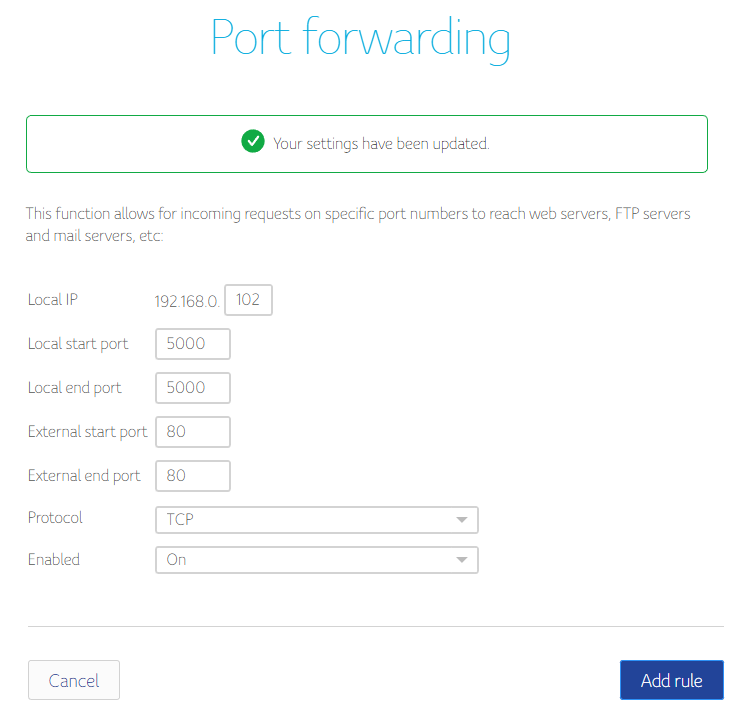
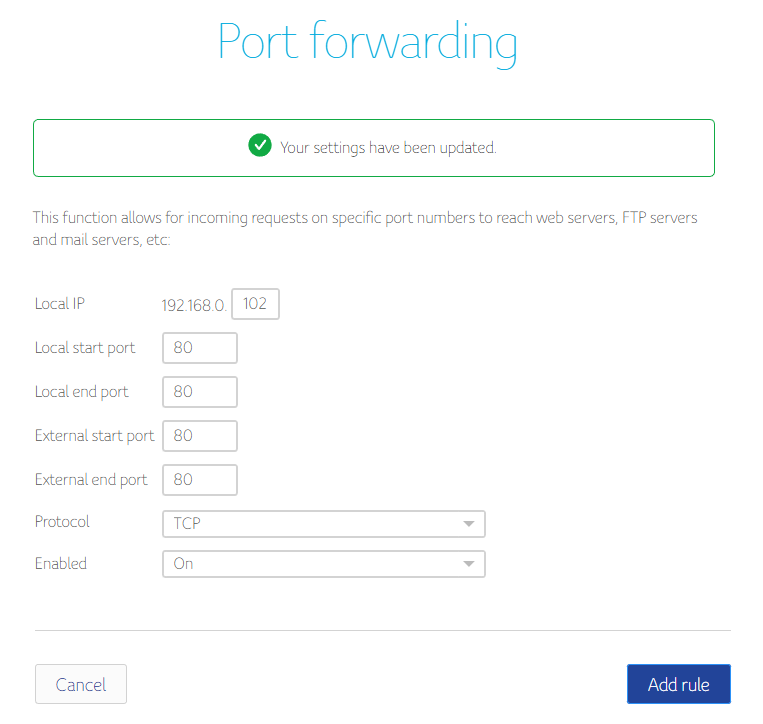
group02 - tutorial improvements

diff --git a/topics/02_raspPI/README.md b/topics/02_raspPI/README.md
@@ -82,44 +82,6 @@ To read the logs from PC:
 ssh pi@pi-server "journalctl -f -u web_api"
 ```
 
-## Port forwarding
-
-To access the web application from the internet outside your local network, you will need to enable port forwarding in your router settings.
-
-First, determine the ip address of your raspberry pi in your local network.
-
-    ifconfig
-
-![ifconfig](images/ifconfig.PNG)
-
-Then, log into your router. How exactly to do this depends on your internet service provider and your router.
-Often the router is accessible on the ip address http://192.168.0.1/.
-
-Enable port forwarding for the external port `80` (http) to the local port `5000`. This might look like this:
-
-![port forwarding](images/portforwarding.PNG)
-
-To check if this worked, first determine the public ip address of your raspberry pi. There are numerous ways to do this, but one of the easiest is just to call the website `icanhazip.com`.
-
-    curl icanhazip.com
-
-Call the ip address you receive in your web browser.
-Now your API should be visible from the wider internet, but it would be nice to have an actual domain name.
-
-## Buy a domain
-
-There are many websites to buy a domain. A list of these domain name registrars can be found [here](https://domainnamestat.com/statistics/registrar/others).
-
-For the purpose of this tutorial, we bought the domain `protofablab.ch`.
-
-On your domain registry, locate the DNS settings and add a DNS-record for your public ip address:
-
-![dns settings](images/dns.PNG)
-
-The API is now available on the domain `protofablab.ch`:
-
-![domain](images/domain.PNG)
-
 ## Setting up a web server with Nginx
 
 Why?
@@ -150,8 +112,45 @@ sudo ln -s /etc/nginx/sites-available/web-api /etc/nginx/sites-enabled/
 sudo service nginx restart
 ```
 
-The web API is now accessible on port `80`(http) on your local ip address (`http://pi-server`).
-To make the server available through nginx from the internet, you have to change your port forwarding to forward the external port `80` to the local port `80`. The API is now available via the specified domain name (e.g. `http://protofablab.ch/`).
+Nginx us now accessible on port `80`(http) on your local ip address (`http://pi-server`), but doesn't show the web API yet.
+
+## Port forwarding
+
+To access the web application from the internet outside your local network, you will need to enable port forwarding in your router settings.
+
+First, determine the ip address of your raspberry pi in your local network.
+
+    ifconfig
+
+![ifconfig](images/ifconfig.PNG)
+
+Then, log into your router. How exactly to do this depends on your internet service provider and your router.
+Often the router is accessible on the ip address http://192.168.0.1/.
+
+Enable port forwarding for the external port `80` (http) to the local port `80`. This might look like this:
+
+![port forwarding](images/portforwarding.PNG)
+
+To check if this worked, first determine the public ip address of your raspberry pi. There are numerous ways to do this, but one of the easiest is just to call the website `icanhazip.com`.
+
+    curl icanhazip.com
+
+Call the ip address you receive in your web browser.
+Now nginx should be visible from the wider internet, but it would be nice to have an actual domain name.
+
+## Buy a domain
+
+There are many websites to buy a domain. A list of these domain name registrars can be found [here](https://domainnamestat.com/statistics/registrar/others).
+
+For the purpose of this tutorial, we bought the domain `protofablab.ch`.
+
+On your domain registry, locate the DNS settings and add a DNS-record for your public ip address:
+
+![dns settings](images/dns.PNG)
+
+The API is now available on the domain `protofablab.ch`:
+
+![domain](images/domain.PNG)
 
 ## Enabling secure connections with HTTPS
 
